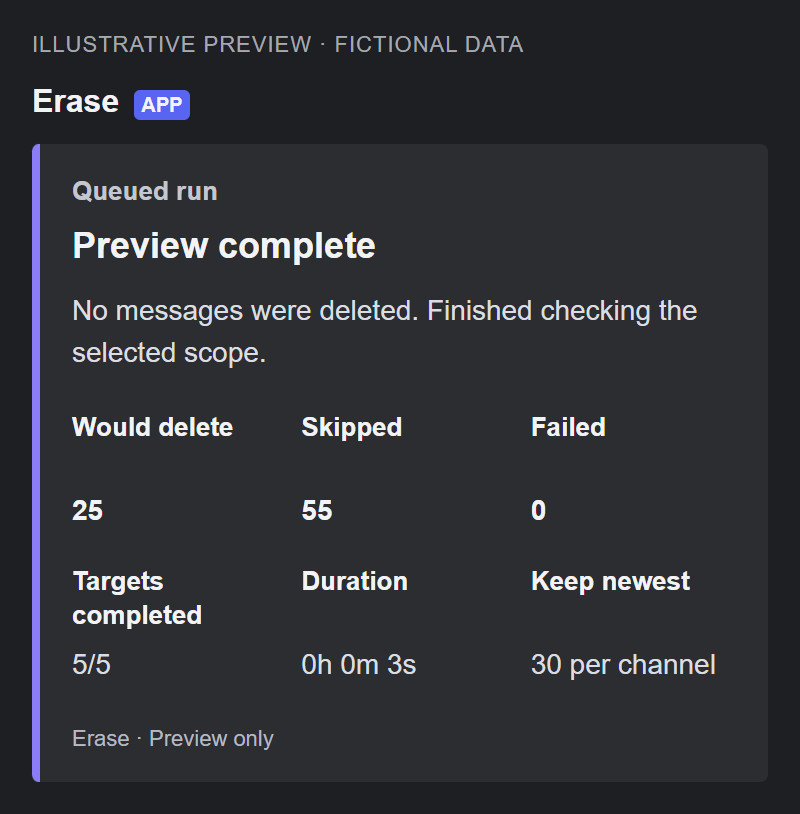
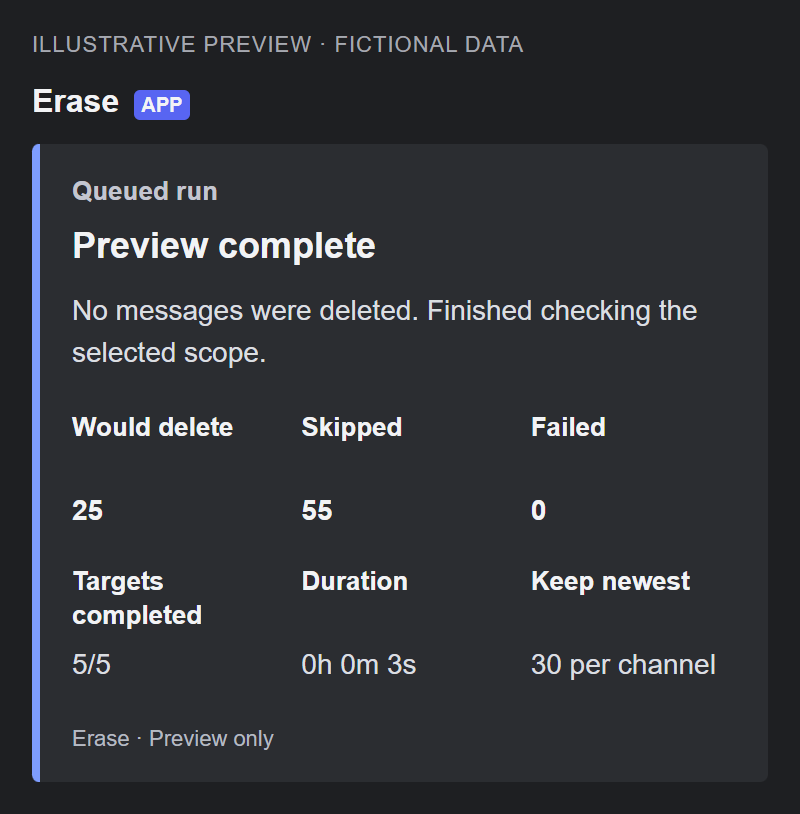
Match webhook cards to the Erase theme

Changed region(s): [[0.0312, 0.1843, 0.0625, 0.9521]]

diff --git a/Erase.user.js b/Erase.user.js
@@ -1,7 +1,7 @@
 // ==UserScript==
 // @name            Erase
 // @description     Delete all messages in a Discord channel or DM (Bulk deletion)
-// @version         1.2.6
+// @version         1.2.7
 // @author          saint
 // @homepageURL     https://github.com/saintordevil/erase-discord-messages
 // @supportURL      https://github.com/saintordevil/erase-discord-messages/issues
@@ -25,7 +25,7 @@
 	if (window.top !== window.self) return;
 
 	/* rollup-plugin-baked-env */
-	const VERSION = "1.2.6";
+	const VERSION = "1.2.7";
 
 	var themeCss = (`
 /* erase window */
@@ -2644,6 +2644,7 @@
     <dialog id="changelogDialog" class="erase-dialog" aria-labelledby="changelogTitle">
         <div class="queue-head"><div><h2 id="changelogTitle">What's new in Erase</h2><p>Useful improvements since 1.0.8.</p></div><button type="button" id="closeChangelog" aria-label="Close changelog"><svg aria-hidden="true" width="16" height="16" viewBox="0 0 24 24"><path fill="none" stroke="currentColor" stroke-width="2" d="M6 6l12 12M18 6L6 18"/></svg></button></div>
         <div class="changelog-body scroll">
+            <section class="changelog-release"><h3>1.2.7 · Matching webhook colors</h3><ul><li>Completion, preview and test cards use Erase's exact theme accent, #7e9dff. Warning, stopped and failed reports also use the tool's existing palette.</li></ul></section>
             <section class="changelog-release"><h3>1.2.6 · Clearer webhook cards</h3><ul><li>Webhook reports use a compact Discord card with blue completed-run and purple preview accents, prominent message totals, and neatly grouped progress, duration and newest-message protection.</li><li>Issues, stopped runs and failures have distinct headings and colors. Extra details appear only when needed, and previews and test reports remain clearly labelled.</li></ul></section>
             <section class="changelog-release"><h3>1.2.5 · Clear counts at every size</h3><ul><li>All numeric ratios use compact formatting such as 15/15, including queue selections, progress, missing-friend checks and webhook reports.</li><li>The progress footer adapts to the panel's width when resized. Status text, percentage, counters and Auto-scroll wrap into separate rows instead of overlapping.</li></ul></section>
             <section class="changelog-release"><h3>1.2.4 · History until you clear it</h3><ul><li>Recently deleted history no longer expires after seven days or drops older records after 200 chats. Existing saved activity carries forward automatically.</li><li>Clear history in the queue popup removes this account's deletion badges after confirmation, without changing its saved queue or messages.</li><li>History saves only changed records, keeping updates small as the list grows. Missing friends and closed DMs keep their badges across later runs.</li></ul></section>
@@ -4753,7 +4754,8 @@
 	  return { username: 'Erase', allowed_mentions: { parse: [] }, embeds: [{
 	    author: { name: report.mode === 'Queued run' ? 'Queued run' : 'Single run' },
 	    title: `${test ? 'Test · ' : ''}${labels[outcome]}`,
-	    description, color: ({ success: report.preview ? 0x8b7cf8 : 0x5865f2, issues: 0xf0b232, stopped: 0x8b86ad, failed: 0xed4245 })[outcome],
+	    // Match the panel's accent, warning, secondary accent and danger tokens.
+	    description, color: ({ success: 0x7e9dff, issues: 0xf4bb67, stopped: 0xc4d1ff, failed: 0xff7685 })[outcome],
 	    fields, footer: { text: test ? 'Erase · Test report' : report.preview ? 'Erase · Preview only' : 'Erase · Run report' },
 	    timestamp: new Date(report.completedAt || Date.now()).toISOString(),
 	  }] };

diff --git a/README.md b/README.md
@@ -29,7 +29,7 @@ Delete your older Discord messages while keeping recent conversations intact. Us
 <table align="center" width="100%">
 <tr><th width="50%">Webhook setup</th><th width="50%">End-of-run report</th></tr>
 <tr><td width="50%" valign="top" align="center"><a href="assets/webhook-setup-readable.gif"><img src="assets/webhook-setup-readable.gif" width="100%" alt="Pasting a webhook URL automatically checks delivery"></a></td><td width="50%" valign="top" align="center"><a href="assets/webhook-report-readable.png"><img src="assets/webhook-report-readable.png" width="100%" alt="Example summary generated by a synthetic queued preview"></a></td></tr>
-<tr><td width="50%" valign="top">Paste a URL in <strong>Webhook</strong> to save it and send one labelled test. <strong>Test delivered</strong> or <strong>Webhook error</strong> confirms the result. Testing works with reports off; use <strong>Test again</strong> to retry. Editing cancels outdated checks, and reloads do not resend tests.</td><td width="50%" valign="top">Enable <strong>Discord webhook reports</strong> for one clean summary card: blue for completion, purple for previews, and distinct issue, stop, or failure states. See totals, progress, duration, and protection without message contents or account credentials. <strong>Clear</strong> removes the saved URL.</td></tr>
+<tr><td width="50%" valign="top">Paste a URL in <strong>Webhook</strong> to save it and send one labelled test. <strong>Test delivered</strong> or <strong>Webhook error</strong> confirms the result. Testing works with reports off; use <strong>Test again</strong> to retry. Editing cancels outdated checks, and reloads do not resend tests.</td><td width="50%" valign="top">Enable <strong>Discord webhook reports</strong> for one clean summary card using Erase's own colors, with clear completion, preview, issue, stop, and failure states. See totals, progress, duration, and protection without message contents or account credentials. <strong>Clear</strong> removes the saved URL.</td></tr>
 </table>
 
 <details>

diff --git a/CHANGELOG.md b/CHANGELOG.md
@@ -2,6 +2,10 @@
 
 User-facing changes to Erase. The same release notes are available in **Advanced settings > View changelog**.
 
+## 1.2.7 · Matching webhook colors
+
+- Completion, preview and test cards use Erase's exact theme accent, #7e9dff. Warning, stopped and failed reports also use the tool's existing palette.
+
 ## 1.2.6 · Clearer webhook cards
 
 - Webhook reports use a compact Discord card with blue completed-run and purple preview accents, prominent message totals, and neatly grouped progress, duration and newest-message protection.
